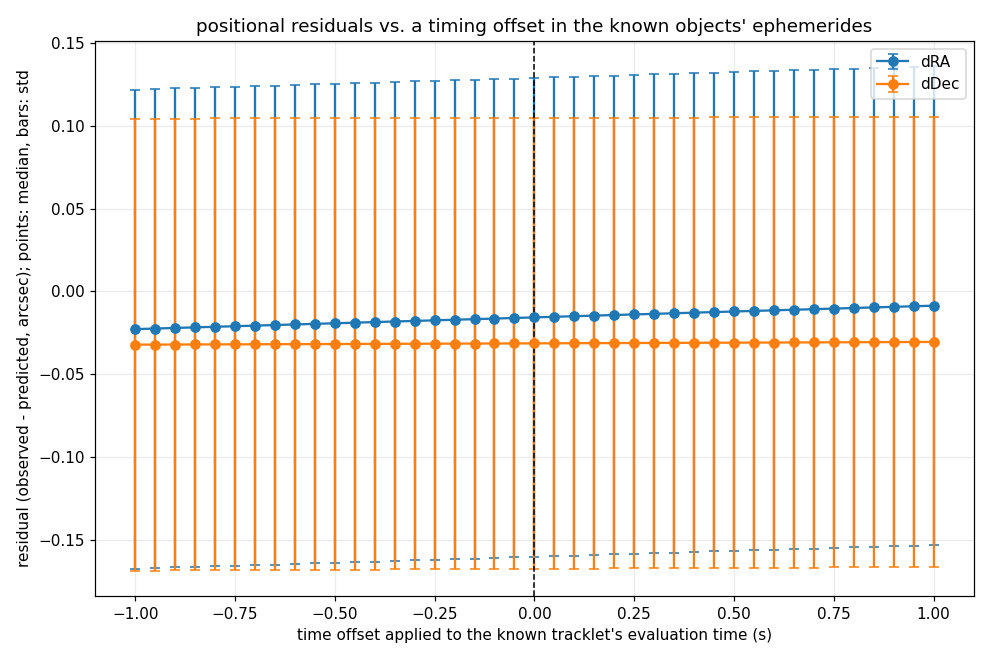
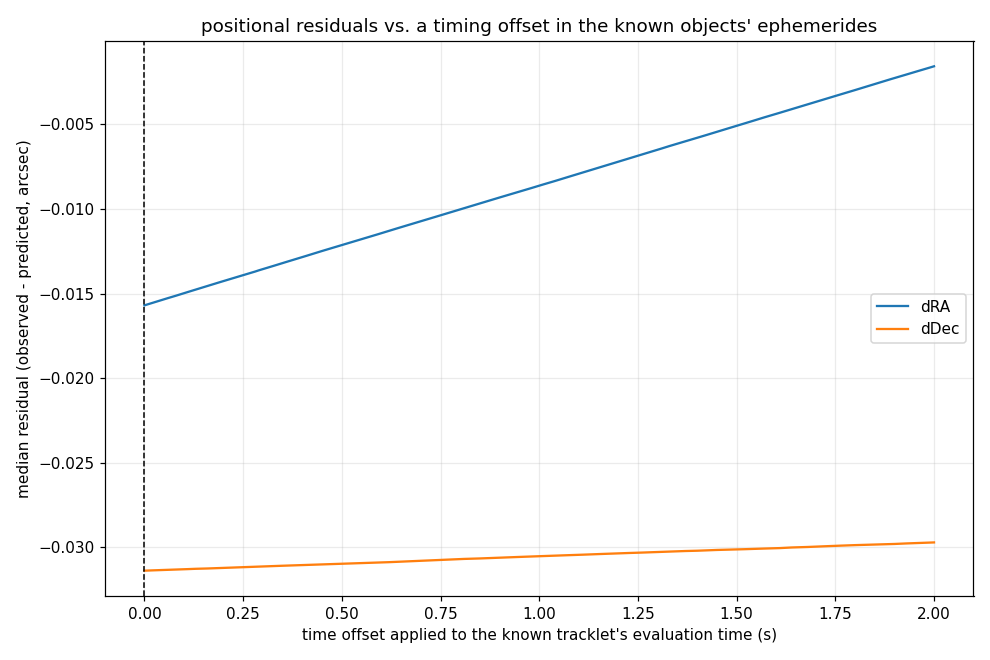
Widen the timing scan to [0, 2]s at 0.01s steps; plot median only
Drop the error-bar overlay (std is still logged to timing_uncertainty.csv,
just not plotted) in favor of a plain line per axis. Regenerated against
the full-survey VR searches (201 points, ~3 min): a smooth, nearly linear
drift of a few mas over the whole range.

diff --git a/src/deep_asteroids/viz/plots.py b/src/deep_asteroids/viz/plots.py
@@ -262,21 +262,22 @@ def plot_position_residuals_vs_mag(rows, path, median_mag_by_object, bin_width=0
 
 
 def plot_time_offset_scan(rows, path):
-    """Median +- std of dRA (C0)/dDec (C1) against the timing offset applied to the known tracklets'
-    evaluation time (``uncertainty.time_offset_scan``, ``results/timing_uncertainty.py``, #46)."""
+    """Median dRA (C0)/dDec (C1) against the timing offset applied to the known tracklets'
+    evaluation time (``uncertainty.time_offset_scan``, ``results/timing_uncertainty.py``, #46).
+    The standard deviation is logged (``write_time_offset_csv``) but not plotted here."""
     plt = _plt()
     rows = [r for r in rows if r.n > 0]
     if not rows:
         raise ValueError("no time-offset scan rows to plot")
     offsets = np.array([r.offset_seconds for r in rows])
     fig, ax = plt.subplots(figsize=(9, 6))
-    for values, errs, label, color in (
-            ([r.median_dra_arcsec for r in rows], [r.std_dra_arcsec for r in rows], "dRA", "C0"),
-            ([r.median_ddec_arcsec for r in rows], [r.std_ddec_arcsec for r in rows], "dDec", "C1")):
-        ax.errorbar(offsets, values, yerr=errs, fmt="o-", color=color, capsize=3, label=label)
+    for values, label, color in (
+            ([r.median_dra_arcsec for r in rows], "dRA", "C0"),
+            ([r.median_ddec_arcsec for r in rows], "dDec", "C1")):
+        ax.plot(offsets, values, color=color, label=label)
     ax.axvline(0.0, color="k", ls="--", lw=1)
     ax.set_xlabel("time offset applied to the known tracklet's evaluation time (s)")
-    ax.set_ylabel("residual (observed - predicted, arcsec); points: median, bars: std")
+    ax.set_ylabel("median residual (observed - predicted, arcsec)")
     ax.set_title("positional residuals vs. a timing offset in the known objects' ephemerides")
     ax.legend()
     ax.grid(alpha=0.25)

diff --git a/results/timing_uncertainty.py b/results/timing_uncertainty.py
@@ -3,9 +3,10 @@ Timing uncertainty against numbered known objects (#46).
 
 How sensitive the positional agreement of `astrometric_uncertainty.py` is to a timing error in the
 known objects' ephemerides: for a grid of offsets applied to the known tracklet's evaluation time
-(default +-1s, 0.05s steps -- 41 points), redoes the detection-level positional comparison (the same
-numbered-object matches, the same 1" detection radius) and logs the median and standard deviation of
-the kept dRA/dDec at that offset, to a CSV and a 1D plot (offset on the x-axis; dRA in C0, dDec in C1).
+(default [0, 2]s, 0.01s steps -- 201 points), redoes the detection-level positional comparison (the
+same numbered-object matches, the same 1" detection radius) and logs the median and standard
+deviation of the kept dRA/dDec at that offset, to a CSV and a 1D plot (offset on the x-axis; dRA in
+C0, dDec in C1).
 
 The crossmatch pairs and their gathered detections are fetched once and reused across every grid
 point, so the whole scan costs about one `astrometric_uncertainty.py` run, not 41 of them.
@@ -30,9 +31,9 @@ from deep_asteroids.crossmatch.uncertainty import (
 from deep_asteroids.database import get_db
 from deep_asteroids.database.search import parse_band
 
-DEFAULT_MIN_OFFSET_SECONDS = -1.0
-DEFAULT_MAX_OFFSET_SECONDS = 1.0
-DEFAULT_STEP_SECONDS = 0.05
+DEFAULT_MIN_OFFSET_SECONDS = 0.0
+DEFAULT_MAX_OFFSET_SECONDS = 2.0
+DEFAULT_STEP_SECONDS = 0.01
 
 
 def parse_args(argv=None):

diff --git a/docs/results/README.md b/docs/results/README.md
@@ -111,13 +111,13 @@ as a diagnostic; it is no longer the cut.
   dropped): the scatter widens steadily fainter than ~mag 18, as
   expected for shot-noise-limited centroiding, and stays essentially
   flat and tight (well under 0.25") brightward of it.
-- **`timing_uncertainty.png`** -- median +- std of dRA (C0)/dDec (C1)
-  against a timing offset applied to the known objects' own evaluation
-  time, scanned over +-1s in 0.05s steps (`results/timing_uncertainty.py`):
-  the std stays flat at ~0.13-0.15" across the whole range (timing is not
-  the limiting term) and the median drifts only slightly (a few mas per
-  0.1s, from the matched objects' own on-sky motion), with no sign of an
-  offset at a particular timing value that would improve agreement.
+- **`timing_uncertainty.png`** -- median dRA (C0)/dDec (C1) against a
+  timing offset applied to the known objects' own evaluation time,
+  scanned over [0, 2]s in 0.01s steps (`results/timing_uncertainty.py`;
+  the standard deviation is logged to `timing_uncertainty.csv` but not
+  plotted): a smooth, nearly linear drift of only a few mas per 0.1s
+  over the whole range, from the matched objects' own on-sky motion --
+  no sign of a particular offset that would sharply improve agreement.
 
 Produced from `/gscratch/dirac/stevengs/claude/deep_asteroids_full_survey.sqlite`
 via `deep-asteroids plot sigma-v/residuals/magnitudes/completeness --band VR` and
@@ -149,8 +149,9 @@ docstring for its arguments):
   `--timing-offset-seconds` applies a one-off shift to the known tracklet's evaluation time before
   comparing, for a quick check; the next script scans a whole grid of them.
 - `results/timing_uncertainty.py` -- the same comparison, redone at a grid of timing offsets
-  (default +-1s, 0.05s steps) applied to the known tracklet's evaluation time, logging the median
-  and standard deviation of the kept dRA/dDec at each one (`timing_uncertainty.csv`) and the
-  `timing_uncertainty.png` plot above. The crossmatch pairs and their gathered detections are
-  fetched once and reused across every grid point, so the 41-point default scan costs about one
-  `astrometric_uncertainty.py` run (under a minute over the VR full-survey results), not 41 of them.
+  (default [0, 2]s, 0.01s steps -- 201 points) applied to the known tracklet's evaluation time,
+  logging the median and standard deviation of the kept dRA/dDec at each one
+  (`timing_uncertainty.csv`) and plotting the median (`timing_uncertainty.png` above). The
+  crossmatch pairs and their gathered detections are fetched once and reused across every grid
+  point, so the 201-point default scan still costs only ~3 minutes over the VR full-survey
+  results, not 201x a single-offset run.
